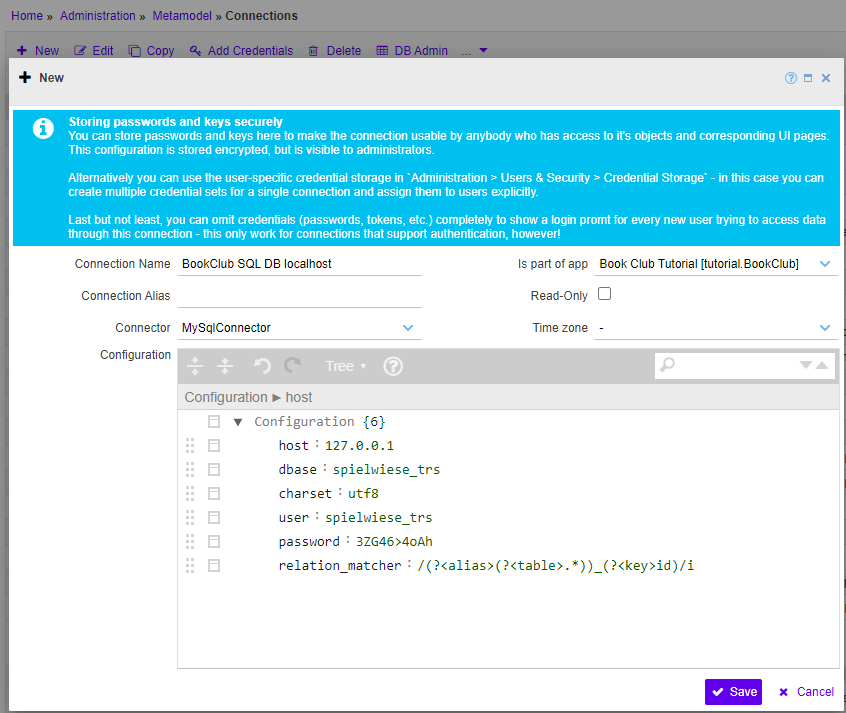
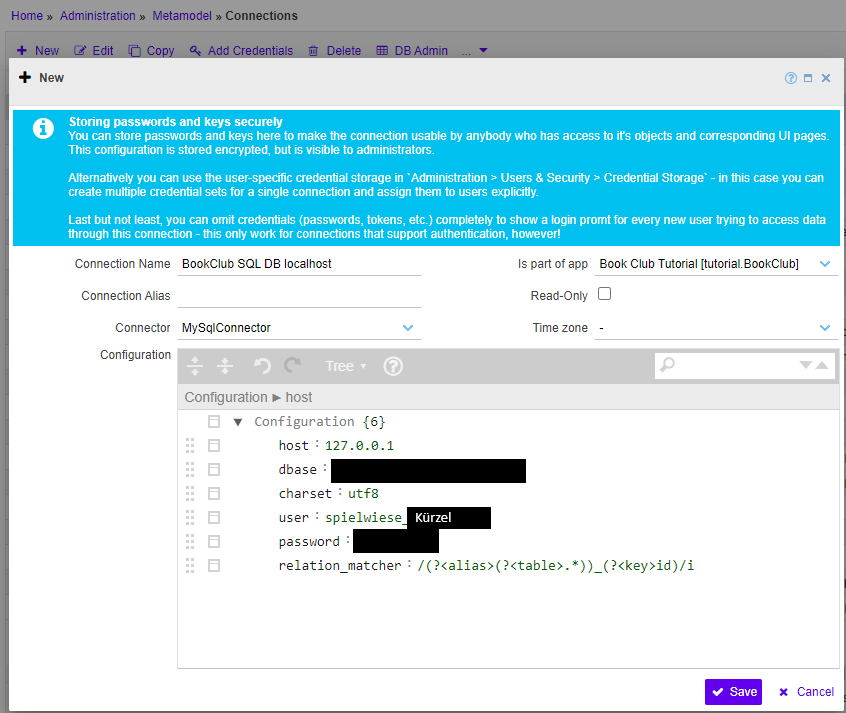
Updating Bookclub Tutorial Docs

Changed region(s): [[0.3688, 0.6171, 0.6454, 0.6788], [0.3995, 0.7097, 0.5839, 0.8022]]

diff --git a/Docs/Tutorials/BookClub_walkthrough/03_Connecting_to_an_sql_database.md b/Docs/Tutorials/BookClub_walkthrough/03_Connecting_to_an_sql_database.md
@@ -68,4 +68,121 @@ Note, that apart from the default connection and query builder (that we have fil
 
 Read more about data sources and connections in the [model docs](../../creating_metamodels/data_sources/index.md).
 
+## 3. Create a new database for the book club
+
+We will use a MySQL database to store all the data required for the [book club tutorial](index.md).
+
+Copy & paste the following SQL to our Adminer Database Management Tool. It will create a database named `tutorial_bookclub`. You can change that name, of course, but you will need to keep track of it in all subsequent steps yourself!
+
+To access Adminer, follow these steps:
+
+1. Navigate to Administration -> Metamodel -> Connections
+
+![Connections](Images/Connections.png)
+
+2. Select your database and press the button "SQL admin".
+
+![Adminer](Images/Adminer.png)
+
+3. You are now inside of Adminer Database Management Tool. Here click the link "SQL command" on the upper left side. Now you can paste the following SQL and press "Execute". The database for your bookclub is now created.
+
+```
+CREATE DATABASE IF NOT EXISTS `tutorial_bookclub` DEFAULT CHARACTER SET utf8 COLLATE utf8_general_ci;
+USE `tutorial_bookclub`;
+
+-- --------------------------------------------------------
+
+CREATE TABLE IF NOT EXISTS `book` (
+  `id` int(11) NOT NULL AUTO_INCREMENT,
+  `created_on` datetime DEFAULT NULL,
+  `created_by_user_id` binary(16) DEFAULT NULL,
+  `modified_on` datetime DEFAULT NULL,
+  `modified_by_user_id` binary(16) DEFAULT NULL,
+  `title` varchar(100) NOT NULL,
+  `series` varchar(100) DEFAULT NULL,
+  `author` varchar(200) DEFAULT NULL,
+  `description_toc` TEXT NULL,
+  `isbn` varchar(13) DEFAULT NULL,
+  `publisher` varchar(50) DEFAULT NULL,
+  `book_size` varchar(10) NULL DEFAULT '',
+  `year` int(4) DEFAULT NULL,
+  `age_min` int(2) DEFAULT NULL,
+  `age_max` int(2) DEFAULT NULL,
+  `pages` int(11) DEFAULT NULL,
+  `language_id` int(11) DEFAULT NULL,
+  `owner_id` int(11) NOT NULL,
+  `owner_comment` TEXT NULL,
+  `owner_rating` int(1) DEFAULT NULL,
+  PRIMARY KEY (`id`)
+) ENGINE=InnoDB AUTO_INCREMENT=10 DEFAULT CHARSET=utf8;
+
+-- --------------------------------------------------------
+
+CREATE TABLE IF NOT EXISTS `book_category` (
+  `id` int(11) NOT NULL AUTO_INCREMENT,
+  `created_on` datetime DEFAULT NULL,
+  `created_by_user_id` binary(16) DEFAULT NULL,
+  `modified_on` datetime DEFAULT NULL,
+  `modified_by_user_id` binary(16) DEFAULT NULL,
+  `category_id` int(11) NOT NULL,
+  `book_id` int(11) NOT NULL,
+  PRIMARY KEY (`id`) USING BTREE
+) ENGINE=InnoDB DEFAULT CHARSET=utf8 ROW_FORMAT=DYNAMIC;
+
+-- --------------------------------------------------------
+
+CREATE TABLE IF NOT EXISTS `category` (
+  `id` int(11) NOT NULL AUTO_INCREMENT,
+  `created_on` datetime DEFAULT NULL,
+  `created_by_user_id` binary(16) DEFAULT NULL,
+  `modified_on` datetime DEFAULT NULL,
+  `modified_by_user_id` binary(16) DEFAULT NULL,
+  `name` varchar(50) NOT NULL,
+  PRIMARY KEY (`id`) USING BTREE
+) ENGINE=InnoDB DEFAULT CHARSET=utf8 ROW_FORMAT=DYNAMIC;
+
+-- --------------------------------------------------------
+
+CREATE TABLE IF NOT EXISTS `language` (
+  `id` int(11) NOT NULL AUTO_INCREMENT,
+  `created_on` datetime DEFAULT NULL,
+  `created_by_user_id` binary(16) DEFAULT NULL,
+  `modified_on` datetime DEFAULT NULL,
+  `modified_by_user_id` binary(16) DEFAULT NULL,
+  `name` varchar(50) NOT NULL,
+  PRIMARY KEY (`id`) USING BTREE
+) ENGINE=InnoDB DEFAULT CHARSET=utf8 ROW_FORMAT=DYNAMIC;
+
+-- --------------------------------------------------------
+
+CREATE TABLE IF NOT EXISTS `loan` (
+  `id` int(11) NOT NULL AUTO_INCREMENT,
+  `created_on` datetime DEFAULT NULL,
+  `created_by_user_id` binary(16) DEFAULT NULL,
+  `modified_on` datetime DEFAULT NULL,
+  `modified_by_user_id` binary(16) DEFAULT NULL,
+  `member_id` int(11) NOT NULL,
+  `book_id` int(11) NOT NULL,
+  `taken` date NOT NULL,
+  `given_back` date DEFAULT NULL,
+  `comment` varchar(200) DEFAULT NULL,
+  PRIMARY KEY (`id`) USING BTREE
+) ENGINE=InnoDB DEFAULT CHARSET=utf8 ROW_FORMAT=DYNAMIC;
+
+-- --------------------------------------------------------
+
+CREATE TABLE IF NOT EXISTS `member` (
+  `id` int(11) NOT NULL AUTO_INCREMENT,
+  `created_on` datetime DEFAULT NULL,
+  `created_by_user_id` binary(16) DEFAULT NULL,
+  `modified_on` datetime DEFAULT NULL,
+  `modified_by_user_id` binary(16) DEFAULT NULL,
+  `name` varchar(50) NOT NULL,
+  `user_oid` binary(16) DEFAULT NULL,
+  PRIMARY KEY (`id`) USING BTREE
+) ENGINE=InnoDB DEFAULT CHARSET=utf8 ROW_FORMAT=DYNAMIC;
+COMMIT;
+
+```
+
 [<kbd> <br> BookClub tutorial <br> </kbd>](index.md) [<kbd> <br>< Previous <br> </kbd>](02_Creating_a_new_app.md) [<kbd> <br>Next > <br> </kbd>](04_Generating_a_model_from_an_SQL_schema.md)

diff --git a/Docs/Tutorials/BookClub_walkthrough/01_Preparation.md b/Docs/Tutorials/BookClub_walkthrough/01_Preparation.md
@@ -14,111 +14,6 @@ The tutorial assumes, that
 
 Should you use another user or facade, the screenshots may look different from what you see. The general logic remains the same!
 
-## 2. Create a new database for the book club
-
-We will use a MySQL database to store all the data required for the [book club tutorial](index.md).
-
-Copy&paste the following SQL to your favorite SQL management tool. It will create a database named `tutorial_bookclub`. You can change that name, of course, but you will need to keep track of it in all subsequent steps yourself!
-
-```
-CREATE DATABASE IF NOT EXISTS `tutorial_bookclub` DEFAULT CHARACTER SET utf8 COLLATE utf8_general_ci;
-USE `tutorial_bookclub`;
-
--- --------------------------------------------------------
-
-CREATE TABLE IF NOT EXISTS `book` (
-  `id` int(11) NOT NULL AUTO_INCREMENT,
-  `created_on` datetime DEFAULT NULL,
-  `created_by_user_id` binary(16) DEFAULT NULL,
-  `modified_on` datetime DEFAULT NULL,
-  `modified_by_user_id` binary(16) DEFAULT NULL,
-  `title` varchar(100) NOT NULL,
-  `series` varchar(100) DEFAULT NULL,
-  `author` varchar(200) DEFAULT NULL,
-  `description_toc` TEXT NULL,
-  `isbn` varchar(13) DEFAULT NULL,
-  `publisher` varchar(50) DEFAULT NULL,
-  `book_size` varchar(10) NULL DEFAULT '',
-  `year` int(4) DEFAULT NULL,
-  `age_min` int(2) DEFAULT NULL,
-  `age_max` int(2) DEFAULT NULL,
-  `pages` int(11) DEFAULT NULL,
-  `language_id` int(11) DEFAULT NULL,
-  `owner_id` int(11) NOT NULL,
-  `owner_comment` TEXT NULL,
-  `owner_rating` int(1) DEFAULT NULL,
-  PRIMARY KEY (`id`)
-) ENGINE=InnoDB AUTO_INCREMENT=10 DEFAULT CHARSET=utf8;
-
--- --------------------------------------------------------
-
-CREATE TABLE IF NOT EXISTS `book_category` (
-  `id` int(11) NOT NULL AUTO_INCREMENT,
-  `created_on` datetime DEFAULT NULL,
-  `created_by_user_id` binary(16) DEFAULT NULL,
-  `modified_on` datetime DEFAULT NULL,
-  `modified_by_user_id` binary(16) DEFAULT NULL,
-  `category_id` int(11) NOT NULL,
-  `book_id` int(11) NOT NULL,
-  PRIMARY KEY (`id`) USING BTREE
-) ENGINE=InnoDB DEFAULT CHARSET=utf8 ROW_FORMAT=DYNAMIC;
-
--- --------------------------------------------------------
-
-CREATE TABLE IF NOT EXISTS `category` (
-  `id` int(11) NOT NULL AUTO_INCREMENT,
-  `created_on` datetime DEFAULT NULL,
-  `created_by_user_id` binary(16) DEFAULT NULL,
-  `modified_on` datetime DEFAULT NULL,
-  `modified_by_user_id` binary(16) DEFAULT NULL,
-  `name` varchar(50) NOT NULL,
-  PRIMARY KEY (`id`) USING BTREE
-) ENGINE=InnoDB DEFAULT CHARSET=utf8 ROW_FORMAT=DYNAMIC;
-
--- --------------------------------------------------------
-
-CREATE TABLE IF NOT EXISTS `language` (
-  `id` int(11) NOT NULL AUTO_INCREMENT,
-  `created_on` datetime DEFAULT NULL,
-  `created_by_user_id` binary(16) DEFAULT NULL,
-  `modified_on` datetime DEFAULT NULL,
-  `modified_by_user_id` binary(16) DEFAULT NULL,
-  `name` varchar(50) NOT NULL,
-  PRIMARY KEY (`id`) USING BTREE
-) ENGINE=InnoDB DEFAULT CHARSET=utf8 ROW_FORMAT=DYNAMIC;
-
--- --------------------------------------------------------
-
-CREATE TABLE IF NOT EXISTS `loan` (
-  `id` int(11) NOT NULL AUTO_INCREMENT,
-  `created_on` datetime DEFAULT NULL,
-  `created_by_user_id` binary(16) DEFAULT NULL,
-  `modified_on` datetime DEFAULT NULL,
-  `modified_by_user_id` binary(16) DEFAULT NULL,
-  `member_id` int(11) NOT NULL,
-  `book_id` int(11) NOT NULL,
-  `taken` date NOT NULL,
-  `given_back` date DEFAULT NULL,
-  `comment` varchar(200) DEFAULT NULL,
-  PRIMARY KEY (`id`) USING BTREE
-) ENGINE=InnoDB DEFAULT CHARSET=utf8 ROW_FORMAT=DYNAMIC;
-
--- --------------------------------------------------------
-
-CREATE TABLE IF NOT EXISTS `member` (
-  `id` int(11) NOT NULL AUTO_INCREMENT,
-  `created_on` datetime DEFAULT NULL,
-  `created_by_user_id` binary(16) DEFAULT NULL,
-  `modified_on` datetime DEFAULT NULL,
-  `modified_by_user_id` binary(16) DEFAULT NULL,
-  `name` varchar(50) NOT NULL,
-  `user_oid` binary(16) DEFAULT NULL,
-  PRIMARY KEY (`id`) USING BTREE
-) ENGINE=InnoDB DEFAULT CHARSET=utf8 ROW_FORMAT=DYNAMIC;
-COMMIT;
-
-```
-
 ## 3. Proceed with the next step
 
 Start a new metamodel by [creating an app](02_Creating_a_new_app.md).

diff --git a/Docs/Tutorials/BookClub_walkthrough/index.md b/Docs/Tutorials/BookClub_walkthrough/index.md
@@ -20,9 +20,9 @@ We will also handle some advanced topics:
 
 ## Table of contents
 
-1. [Preparation & requirements](01_Preparation.md) - required apps and packages, database schema, etc.
+1. [Preparation & requirements](01_Preparation.md) - required apps and packages, etc.
 2. [Creating a new app](02_Creating_a_new_app.md)
-3. [Setting up a data source in the model](03_Connecting_to_an_sql_database.md) - MySQL connection and data source
+3. [Setting up a data source in the model](03_Connecting_to_an_sql_database.md) - MySQL connection, data source and database schema
 4. [Generating a metamodel from an SQL schema](04_Generating_a_model_from_an_SQL_schema.md) - Model builder, introduction to the object editor
 5. [Creating a simple page](05_Creating_the_apps_first_pages.md) - introduction to the UXON editor, presets, etc.
 6. [Organizing pages and navigation](06_Organizing_pages.md) - creating master data pages and a tile menu
